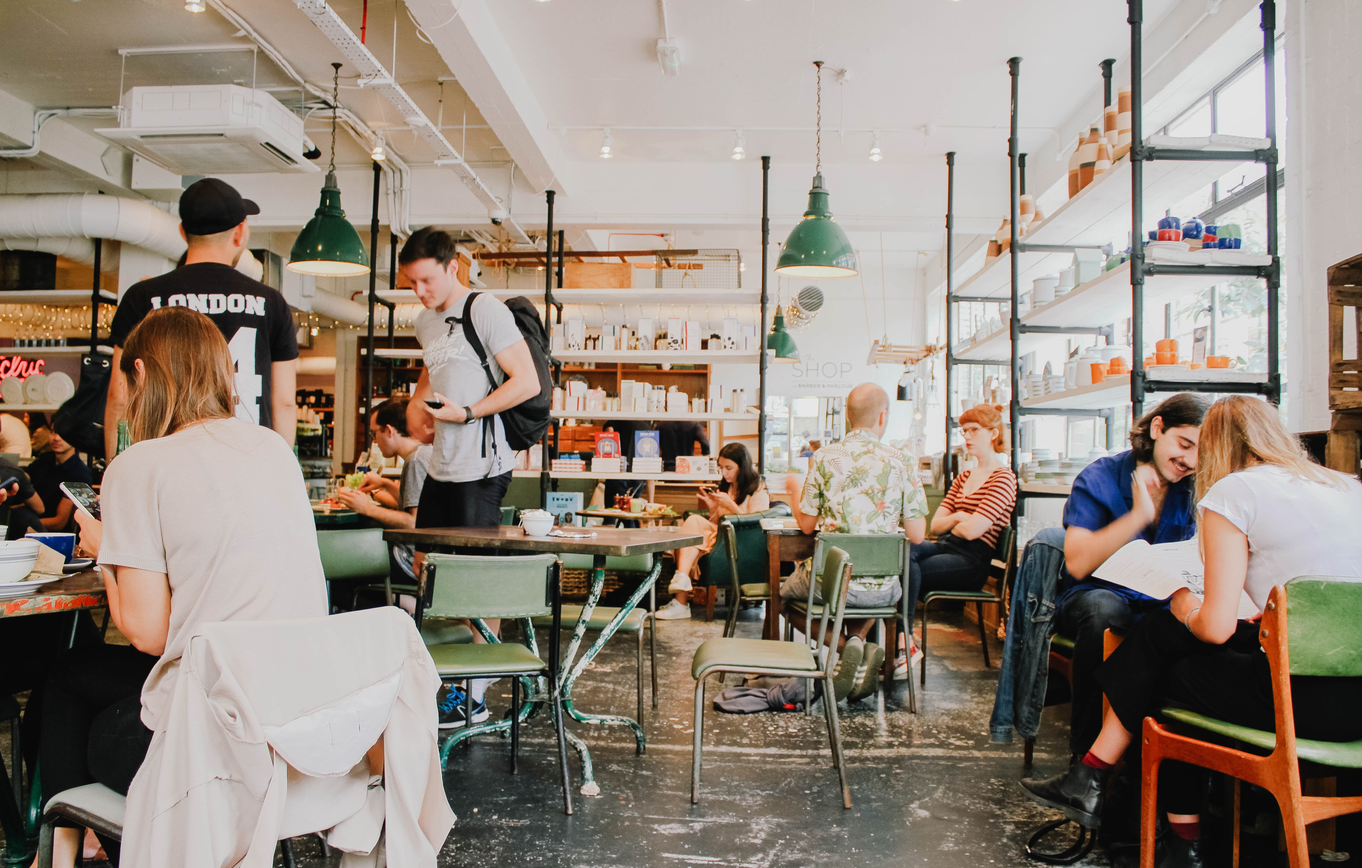
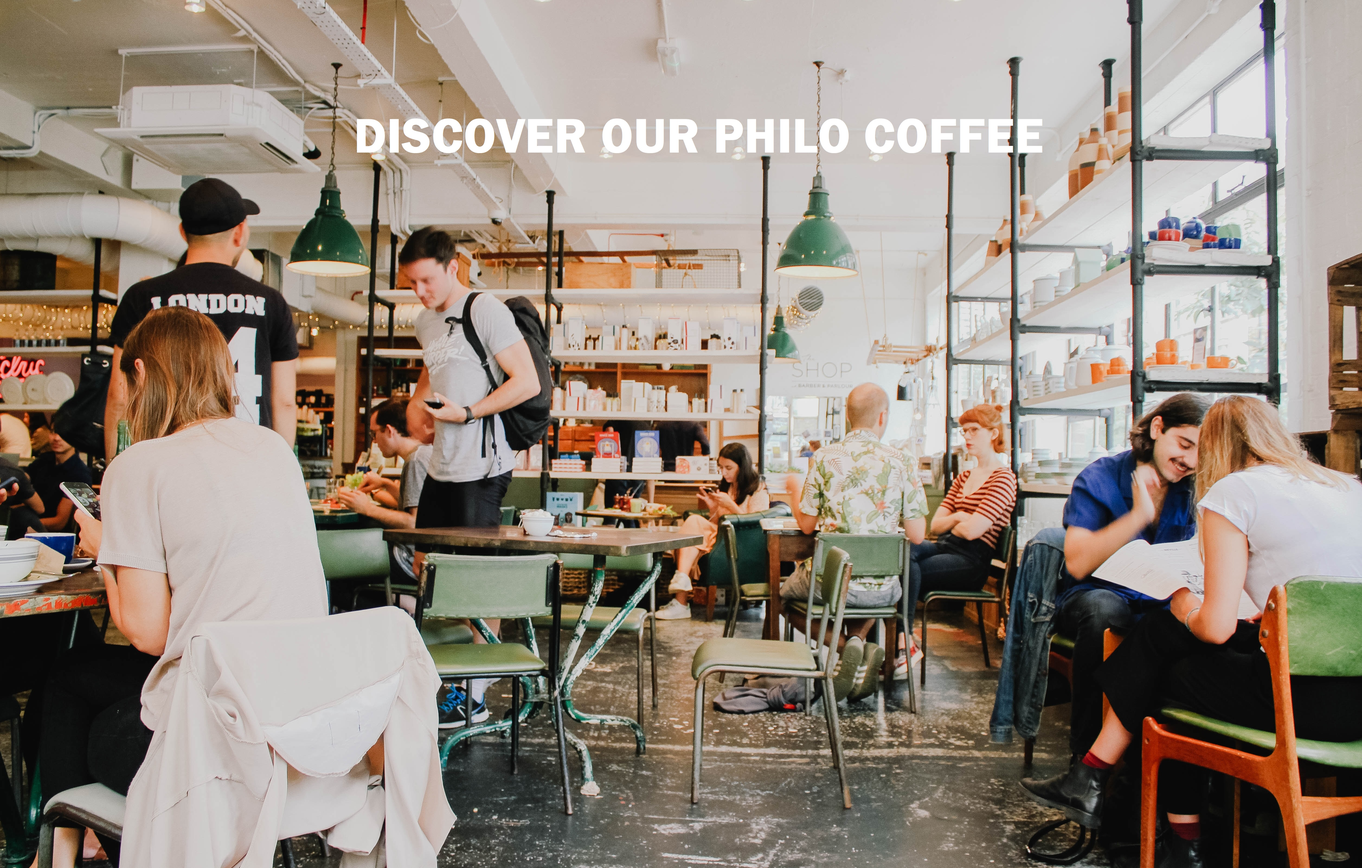
Index alterations and Social Media Works

Changed region(s): [[0.25, 0.1249, 0.7812, 0.1873]]

diff --git a/www/index.html b/www/index.html
@@ -38,75 +38,32 @@
       </div>
     </div>
 
-    <p>
-      Lorem ipsum dolor sit amet. Et velit temporibus et odit iure sit quos
-      officiis sed nobis incidunt. Et fuga quis non voluptatem laborum in unde
-      laboriosam. Et omnis aperiam sit quos commodi in laudantium nostrum id
-      debitis quasi qui nihil dolores vel doloremque! Qui mollitia quia est
-      architecto dolorum ea iste dolores a quas magni qui nihil mollitia est
-      aliquid beatae ad earum? Qui mollitia sequi sed obcaecati magnam qui iure
-      laborum et repellendus expedita qui totam autem 33 galisum architecto. Ut
-      nobis magnam et aliquam molestiae rem quaerat magnam a autem libero non
-      unde temporibus. Sit nesciunt nulla est voluptatem dicta est molestias
-      veniam ex maxime iste. Et inventore quisquam At quos culpa ut accusantium
-      fugit sit accusantium optio? Sit doloribus maiores qui similique itaque
-      aut omnis ipsum! Hic ducimus dolor id magni harum qui iusto optio ad omnis
-      minus. Lorem ipsum dolor sit amet. Et velit temporibus et odit iure sit
-      quos officiis sed nobis incidunt. Et fuga quis non voluptatem laborum in
-      unde laboriosam. Et omnis aperiam sit quos commodi in laudantium nostrum
-      id debitis quasi qui nihil dolores vel doloremque! Qui mollitia quia est
-      architecto dolorum ea iste dolores a quas magni qui nihil mollitia est
-      aliquid beatae ad earum? Qui mollitia sequi sed obcaecati magnam qui iure
-      laborum et repellendus expedita qui totam autem 33 galisum architecto. Ut
-      nobis magnam et aliquam molestiae rem quaerat magnam a autem libero non
-      unde temporibus. Sit nesciunt nulla est voluptatem dicta est molestias
-      veniam ex maxime iste. Et inventore quisquam At quos culpa ut accusantium
-      fugit sit accusantium optio? Sit doloribus maiores qui similique itaque
-      aut omnis ipsum! Hic ducimus dolor id magni harum qui iusto optio ad omnis
-      minus. Lorem ipsum dolor sit amet. Et velit temporibus et odit iure sit
-      quos officiis sed nobis incidunt. Et fuga quis non voluptatem laborum in
-      unde laboriosam. Et omnis aperiam sit quos commodi in laudantium nostrum
-      id debitis quasi qui nihil dolores vel doloremque! Qui mollitia quia est
-      architecto dolorum ea iste dolores a quas magni qui nihil mollitia est
-      aliquid beatae ad earum? Qui mollitia sequi sed obcaecati magnam qui iure
-      laborum et repellendus expedita qui totam autem 33 galisum architecto. Ut
-      nobis magnam et aliquam molestiae rem quaerat magnam a autem libero non
-      unde temporibus. Sit nesciunt nulla est voluptatem dicta est molestias
-      veniam ex maxime iste. Et inventore quisquam At quos culpa ut accusantium
-      fugit sit accusantium optio? Sit doloribus maiores qui similique itaque
-      aut omnis ipsum! Hic ducimus dolor id magni harum qui iusto optio ad omnis
-      minus. Lorem ipsum dolor sit amet. Et velit temporibus et odit iure sit
-      quos officiis sed nobis incidunt. Et fuga quis non voluptatem laborum in
-      unde laboriosam. Et omnis aperiam sit quos commodi in laudantium nostrum
-      id debitis quasi qui nihil dolores vel doloremque! Qui mollitia quia est
-      architecto dolorum ea iste dolores a quas magni qui nihil mollitia est
-      aliquid beatae ad earum? Qui mollitia sequi sed obcaecati magnam qui iure
-      laborum et repellendus expedita qui totam autem 33 galisum architecto. Ut
-      nobis magnam et aliquam molestiae rem quaerat magnam a autem libero non
-      unde temporibus. Sit nesciunt nulla est voluptatem dicta est molestias
-      veniam ex maxime iste. Et inventore quisquam At quos culpa ut accusantium
-      fugit sit accusantium optio? Sit doloribus maiores qui similique itaque
-      aut omnis ipsum! Hic ducimus dolor id magni harum qui iusto optio ad omnis
-      minus.
-    </p>
+    <div class="col-md-12 row">
+      <div class="col-md-5"></div>
+      <div class="col-md-2"><img class="iconIndexPage" src="./Assets/logo_mrcoffee.png"></div>
+      <div class="col-md-5"></div>
+    </div>
+    <div>
+      <img class="imgBigIndex" src="./Assets/mr_coffee_salle.jpg">
+    </div>
   </body>
 
   <footer>
     <div class="HeaderFooterBackgroud">
       <div class="col-md-12 row">
         <div class="col-md-4">
-          <br>
+          <br />
           <img class="logoFooter" src="./Assets/logo_blanc.png" />
         </div>
 
         <div class="col-md-4">
-
           <div class="col-md-8 row">
             <div class="col-md-1"></div>
             <div class="col-md-10">
               <p class="textFooter">
-                <br>
-                Follow us on social medias!</p>
+                <br />
+                Follow us on social medias!
+              </p>
             </div>
             <div class="col-md-1"></div>
           </div>
@@ -115,16 +72,15 @@
             <div class="col-md-4"></div>
 
             <div class="col-md-2">
-              <img class="iconSocialMedias" src="./Assets/logo_linkedin.png" />
+              <a href="https://linkedin.com/" target="_blank"><img class="iconSocialMedias" src="./Assets/logo_linkedin.png"/></a>
             </div>
             <div class="col-md-2">
-              <img class="iconSocialMedias" src="./Assets/logo_twitter.png" />
+              <a href="https://twitter.com/" target="_blank"><img class="iconSocialMedias" src="./Assets/logo_twitter.png" /></a>
             </div>
             <div class="col-md-2">
-              <img class="iconSocialMedias" src="./Assets/logo_facebook.png" />
+              <a href="https://facebook.com/" target="_blank"><img class="iconSocialMedias" src="./Assets/logo_facebook.png" /></a>              
             </div>
             <div class="col-md-4"></div>
-
           </div>
         </div>
 

diff --git a/www/application.css b/www/application.css
@@ -1,57 +1,64 @@
 .textHeader {
-    color: white !important;
-    text-decoration: none;
-    float: right;
-    text-align: right;    
-    font-size: 15px;
-    padding: 15px;
-  }
-
-.navLinksText{
-    display: flex;
-    align-items: center;
-
+  color: white !important;
+  text-decoration: none;
+  float: right;
+  text-align: right;
+  font-size: 15px;
+  padding: 15px;
 }
 
-.logoHeader{
+.navLinksText {
+  display: flex;
+  align-items: center;
+}
+
+.logoHeader {
+  justify-content: center;
+  max-width: 175px;
+  max-height: 175px;
+  padding: 15px;
+}
+
+.iconSocialMedias {
+  justify-content: center;
+  display: flex;
+  max-width: 55px;
+  max-height: 55px;
+  padding: 15px;
+}
+
+.logoFooter {
+  justify-content: center;
+  max-width: 95px;
+  max-height: 95px;
+  padding: 15px;
+}
+
+.HeaderFooterBackgroud {
+  background-color: #13293d;
+  opacity: 75%;
+}
+
+.textFooter {
+  color: white;
+  vertical-align: center !important;
+  text-decoration: none;
+}
+
+.iconIndexPage {
+  justify-content: center;
+  vertical-align: center !important;
+  max-width: 300px;
+  max-height: 300px;
+  padding: 15px;
+  display: flex;
+  align-items: center;
+}
+
+.imgBigIndex {
+    width: 1850px;
+    height: auto;
     justify-content: center;
-    max-width: 175px;
-    max-height: 175px;
-    padding: 15px;
-
+    padding-left: 100px;
+    padding-right: 50px
 }
-
-.iconSocialMedias{
-    justify-content: center;
-    display: flex;
-    max-width: 55px;
-    max-height: 55px;
-    padding: 15px;
-    
-}
-
-.logoFooter{
-    justify-content: center;
-    max-width: 95px;
-    max-height: 95px;
-    padding: 15px;
-}
-
-.HeaderFooterBackgroud{
-    background-color: #13293D;
-    opacity: 75%;
-
-}
-
-.textFooter{
-    color: white;
-    vertical-align: center !important;
-    text-decoration: none;
-
-}
-
-
-    
-
-
-  

diff --git a/www/about.html b/www/about.html
@@ -95,18 +95,18 @@
     <div class="HeaderFooterBackgroud">
       <div class="col-md-12 row">
         <div class="col-md-4">
-          <br>
+          <br />
           <img class="logoFooter" src="./Assets/logo_blanc.png" />
         </div>
 
         <div class="col-md-4">
-
           <div class="col-md-8 row">
             <div class="col-md-1"></div>
             <div class="col-md-10">
               <p class="textFooter">
-                <br>
-                Follow us on social medias!</p>
+                <br />
+                Follow us on social medias!
+              </p>
             </div>
             <div class="col-md-1"></div>
           </div>
@@ -115,16 +115,15 @@
             <div class="col-md-4"></div>
 
             <div class="col-md-2">
-              <img class="iconSocialMedias" src="./Assets/logo_linkedin.png" />
+              <a href="https://linkedin.com/" target="_blank"><img class="iconSocialMedias" src="./Assets/logo_linkedin.png"/></a>
             </div>
             <div class="col-md-2">
-              <img class="iconSocialMedias" src="./Assets/logo_twitter.png" />
+              <a href="https://twitter.com/" target="_blank"><img class="iconSocialMedias" src="./Assets/logo_twitter.png" /></a>
             </div>
             <div class="col-md-2">
-              <img class="iconSocialMedias" src="./Assets/logo_facebook.png" />
+              <a href="https://facebook.com/" target="_blank"><img class="iconSocialMedias" src="./Assets/logo_facebook.png" /></a>              
             </div>
             <div class="col-md-4"></div>
-
           </div>
         </div>
 

diff --git a/www/contact.html b/www/contact.html
@@ -95,18 +95,18 @@
     <div class="HeaderFooterBackgroud">
       <div class="col-md-12 row">
         <div class="col-md-4">
-          <br>
+          <br />
           <img class="logoFooter" src="./Assets/logo_blanc.png" />
         </div>
 
         <div class="col-md-4">
-
           <div class="col-md-8 row">
             <div class="col-md-1"></div>
             <div class="col-md-10">
               <p class="textFooter">
-                <br>
-                Follow us on social medias!</p>
+                <br />
+                Follow us on social medias!
+              </p>
             </div>
             <div class="col-md-1"></div>
           </div>
@@ -115,16 +115,15 @@
             <div class="col-md-4"></div>
 
             <div class="col-md-2">
-              <img class="iconSocialMedias" src="./Assets/logo_linkedin.png" />
+              <a href="https://linkedin.com/" target="_blank"><img class="iconSocialMedias" src="./Assets/logo_linkedin.png"/></a>
             </div>
             <div class="col-md-2">
-              <img class="iconSocialMedias" src="./Assets/logo_twitter.png" />
+              <a href="https://twitter.com/" target="_blank"><img class="iconSocialMedias" src="./Assets/logo_twitter.png" /></a>
             </div>
             <div class="col-md-2">
-              <img class="iconSocialMedias" src="./Assets/logo_facebook.png" />
+              <a href="https://facebook.com/" target="_blank"><img class="iconSocialMedias" src="./Assets/logo_facebook.png" /></a>              
             </div>
             <div class="col-md-4"></div>
-
           </div>
         </div>
 
